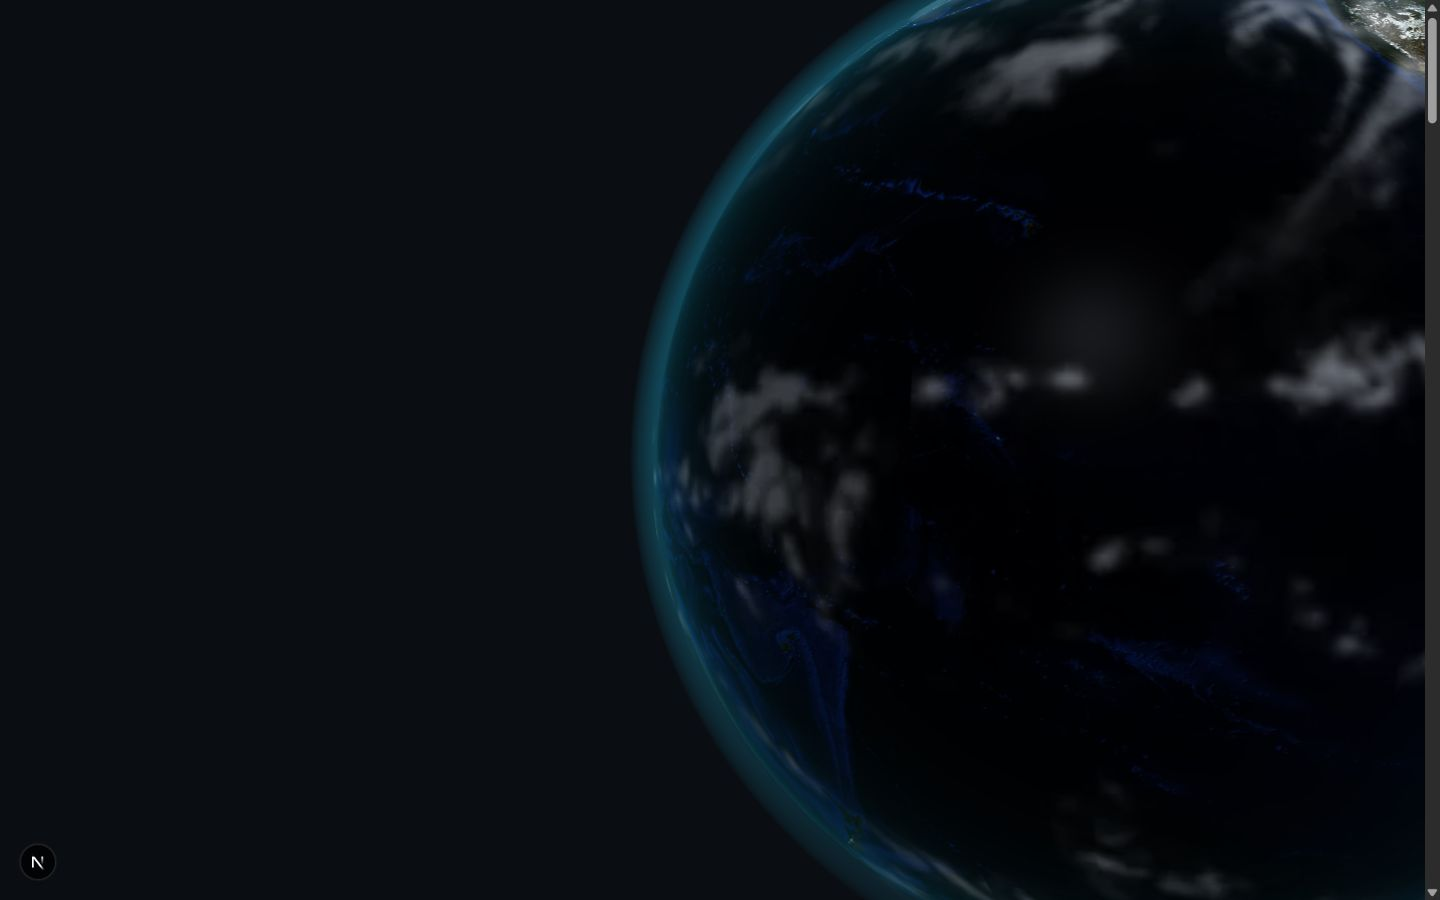
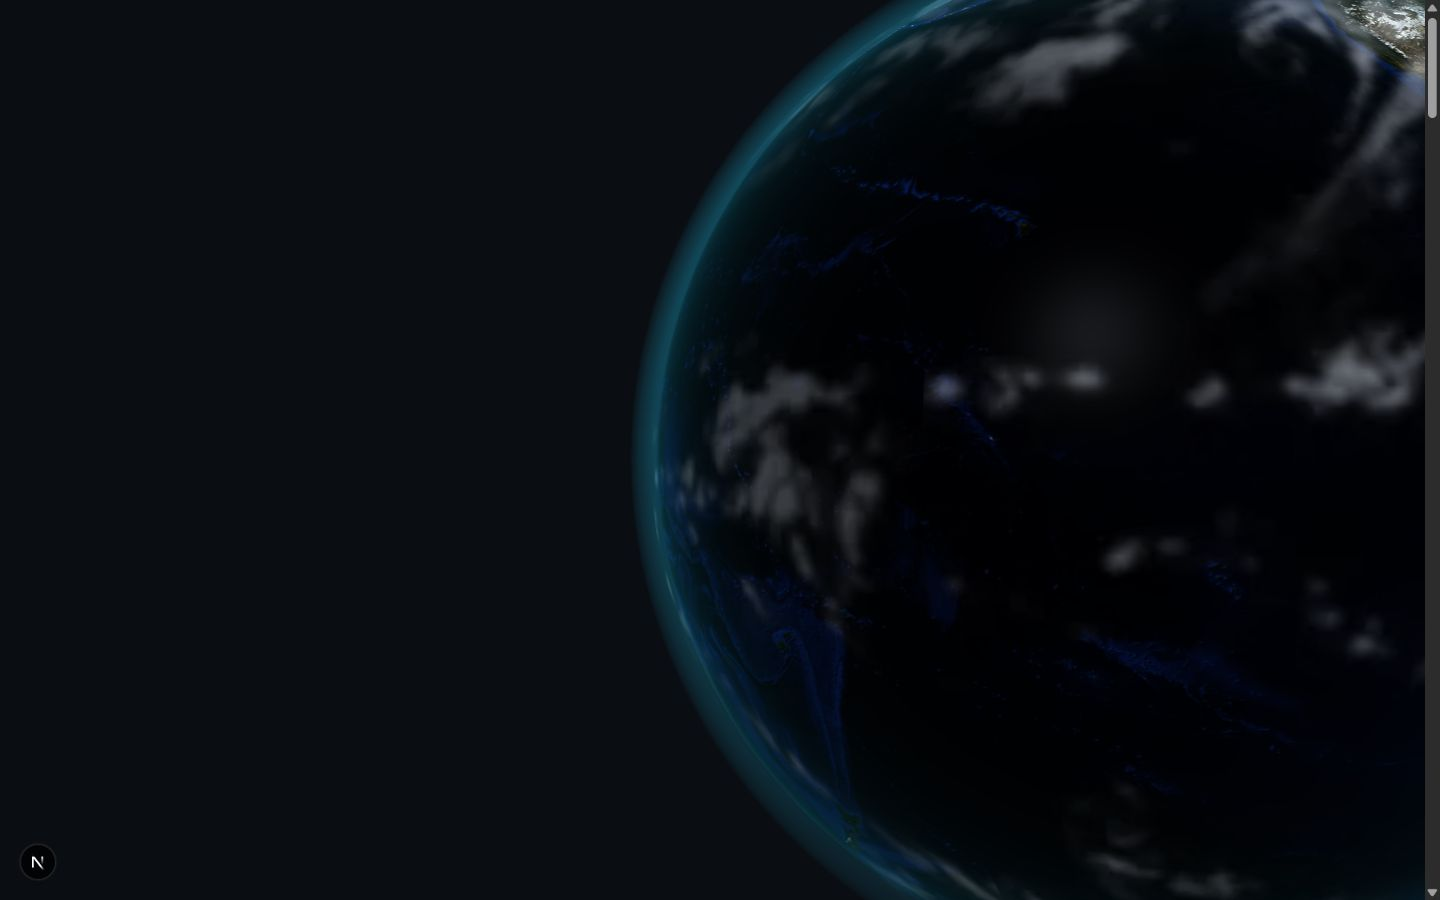
feat: round 6: hard hand-offs, header solid over the film, Web folded to one beat
Each visual mounts only once its stage is nearly in and the previous one
has fully left. The header is solid from the Canada zoom on. The Web
chapter is a headline, a paragraph, one link and the card stack. Systems
is vertically centred with a front-on grid and a legend; Physics reads on
the right with the orbits on the left. README updated for five chapters.

diff --git a/src/app/page.tsx b/src/app/page.tsx
@@ -1,5 +1,4 @@
 import Link from "next/link";
-import type { Route } from "next";
 import { ArrowRightIcon, ArrowUpRightIcon } from "@/components/icons";
 import { Chapter } from "@/components/film/chapter";
 import { FilmMotion } from "@/components/film/film-motion";
@@ -7,7 +6,7 @@ import { FilmHero } from "@/components/film/film-hero";
 import { Container } from "@/components/section";
 import { buttonVariants } from "@/components/ui/button";
 import { cn } from "@/lib/utils";
-import { listedProjects, roles } from "@/content/work";
+import { roles } from "@/content/work";
 import { site } from "@/content/site";
 
 const current = roles.find((r) => r.current)!;
@@ -90,11 +89,12 @@ export default function HomePage() {
           index="02"
           label="Systems"
           length={0.9}
+          align="center"
         >
-          <h2 id="systems-title" className={cn(chapterTitle, "mt-6 sm:mt-0")} data-line>
+          <h2 id="systems-title" className={cn(chapterTitle, "sm:max-w-[16ch]")} data-line>
             {current.title} at {current.organisation}.
           </h2>
-          <div className={chapterBody}>
+          <div className={cn(chapterBody, "sm:max-w-[42ch]")}>
             <p data-line>
               I keep the scheduling software a health region of{" "}
               <em className="font-display text-[1.15em] text-ink not-italic">
@@ -105,19 +105,28 @@ export default function HomePage() {
               it every day.
             </p>
             <p data-line className="hidden sm:block">
-              It is a good place to learn what software looks like when the
-              stakes are real. People notice immediately when a clinic cannot
-              book a patient.
+              People notice immediately when a clinic cannot book a patient.
             </p>
           </div>
+          <p className="label mt-6 max-w-[40ch]" data-line>
+            One week, Monday to Sunday, 06:00 to 18:00. Teal is booked. The
+            amber slot is a conflict, moved.
+          </p>
         </Chapter>
 
         {/* -------------------------------------------------- 03, physics */}
-        <Chapter id="physics" index="03" label="Physics" length={0.7}>
-          <h2 id="physics-title" className={chapterTitle} data-line>
+        <Chapter
+          id="physics"
+          index="03"
+          label="Physics"
+          length={0.7}
+          align="center"
+          panelClassName="sm:pl-[52%]"
+        >
+          <h2 id="physics-title" className={cn(chapterTitle, "sm:max-w-[18ch]")} data-line>
             I studied physics. It left me with one habit: measure, then decide.
           </h2>
-          <div className={chapterBody}>
+          <div className={cn(chapterBody, "sm:max-w-[42ch]")}>
             <p data-line>
               The degree taught me to sit with a problem I did not understand
               yet. The programming started as a way through problem sets and
@@ -128,35 +137,23 @@ export default function HomePage() {
         </Chapter>
 
         {/* ------------------------------------------------------ 04, web */}
-        <Chapter id="web" index="04" label="Web" length={0.45} hold>
+        <Chapter id="web" index="04" label="Web" length={0.3} hold>
           <h2 id="web-title" className={chapterTitle} data-line>
             Small, fast pages that are real HTML before any JavaScript runs.
           </h2>
-          <ul className="mt-6 grid max-w-3xl grid-cols-2 gap-x-6 gap-y-3 sm:mt-8 lg:grid-cols-4">
-            {listedProjects.slice(0, 4).map((project) => (
-              <li
-                key={project.slug}
-                className="border-t border-line pt-3 pr-4 sm:pt-4"
-                data-line
-              >
-                <Link
-                  href={
-                    (project.href.startsWith("/") ? project.href : "/work") as Route
-                  }
-                  className="group inline-flex items-center gap-1.5 font-display text-xl text-ink hover:text-signal sm:text-2xl"
-                >
-                  {project.title}
-                  <ArrowUpRightIcon
-                    aria-hidden
-                    className="size-4 transition-transform duration-300 group-hover:translate-x-0.5 group-hover:-translate-y-0.5"
-                  />
-                </Link>
-                <p className="mt-1.5 hidden text-sm leading-relaxed text-ink-muted sm:block">
-                  {project.blurb}
-                </p>
-              </li>
-            ))}
-          </ul>
+          <p className={chapterBody} data-line>
+            Four small programs live on this site: an orbital mechanics lab, a
+            double pendulum, a shift scheduler, and a globe you can leave a
+            light on.
+          </p>
+          <Link
+            href="/work"
+            className="link-underline mt-6 inline-flex items-center gap-2 text-sm font-medium text-ink hover:text-signal"
+            data-line
+          >
+            See all four
+            <ArrowRightIcon aria-hidden className="size-4" />
+          </Link>
         </Chapter>
 
       </FilmMotion>

diff --git a/src/components/film/schedule-scene.tsx b/src/components/film/schedule-scene.tsx
@@ -51,7 +51,7 @@ const slots: Slot[] = (() => {
   for (let i = 0; i < COUNT; i++) {
     const booked = random() < 0.58;
     out.push({
-      height: booked ? 0.08 + random() * 0.26 : 0.012,
+      height: booked ? 0.07 + random() * 0.15 : 0.012,
       booked,
       order: random(),
     });
@@ -62,7 +62,7 @@ const slots: Slot[] = (() => {
 /** The booking that moves, and where it goes. */
 const FROM = 3 * ROWS + 5;
 const TO = 5 * ROWS + 8;
-slots[FROM] = { height: 0.3, booked: true, order: 0.3 };
+slots[FROM] = { height: 0.22, booked: true, order: 0.3 };
 slots[TO] = { height: 0.012, booked: false, order: 0.9 };
 
 const dummy = new THREE.Object3D();
@@ -110,10 +110,10 @@ export function ScheduleScene() {
       let color: THREE.Color = slot.booked ? tealColor : emptyColor;
 
       if (i === FROM) {
-        height = 0.012 + (0.3 - 0.012) * local * (1 - ease(reflow));
+        height = 0.012 + (0.22 - 0.012) * local * (1 - ease(reflow));
         color = scratch.copy(tealColor).lerp(amberColor, ease(reflow * 2));
       } else if (i === TO) {
-        height = 0.012 + (0.3 - 0.012) * ease((reflow - 0.4) / 0.6);
+        height = 0.012 + (0.22 - 0.012) * ease((reflow - 0.4) / 0.6);
         color = reflow > 0.4 ? amberColor : emptyColor;
       }
 
@@ -132,15 +132,15 @@ export function ScheduleScene() {
 
     // Placement: right half on wide screens, upper half on phones. Slides
     // up and shrinks away as the chapter leaves.
-    const leave = ease(p.exit / 0.55);
+    const leave = ease(p.exit / 0.4);
     const base = narrow
       ? { x: 0, y: -0.66, s: 0.36 }
-      : { x: Math.min(0.9, halfW - 0.95), y: 0.05, s: 0.78 };
+      : { x: Math.min(0.95, halfW - 0.95), y: 0.0, s: 0.72 };
     g.position.set(base.x, base.y + leave * 1.1, 0);
     // Holds back until the Earth has mostly left, then grows in.
-    const arrive = ease((p.enter - 0.3) / 0.5);
+    const arrive = ease((p.enter - 0.8) / 0.2);
     g.scale.setScalar(Math.max(0.0001, base.s * (1 - leave * 0.4) * (0.7 + 0.3 * arrive) * arrive * (1 - leave)));
-    g.rotation.set(-0.62 + leave * 0.3, Math.sin(p.pin * Math.PI) * 0.06 - 0.06, 0);
+    g.rotation.set(-0.46 + leave * 0.3, Math.sin(p.pin * Math.PI) * 0.04, 0);
     if (caption.current) {
       const material = caption.current.material as THREE.MeshBasicMaterial;
       material.opacity = ease((reflow - 0.35) / 0.3) * (1 - leave);
@@ -155,11 +155,11 @@ export function ScheduleScene() {
       </mesh>
       {/* Day names along the far edge, hours down the left, both lying flat. */}
       <mesh rotation={[-Math.PI / 2, 0, 0]} position={[0, 0.002, -(ROWS * (CELL + GAP)) / 2 - 0.2]}>
-        <planeGeometry args={[COLUMNS * (CELL + GAP), 0.16]} />
+        <planeGeometry args={[COLUMNS * (CELL + GAP), 0.2]} />
         <meshBasicMaterial map={dayLabels} transparent depthWrite={false} />
       </mesh>
       <mesh rotation={[-Math.PI / 2, 0, 0]} position={[-(COLUMNS * (CELL + GAP)) / 2 - 0.2, 0.002, 0]}>
-        <planeGeometry args={[0.16, ROWS * (CELL + GAP)]} />
+        <planeGeometry args={[0.2, ROWS * (CELL + GAP)]} />
         <meshBasicMaterial map={hourLabels} transparent depthWrite={false} />
       </mesh>
       <mesh

diff --git a/src/components/film/cards-scene.tsx b/src/components/film/cards-scene.tsx
@@ -32,7 +32,7 @@ function Card({
     const g = group.current;
     if (!g) return;
     const t = clock.elapsedTime + index * 1.7;
-    const enter = ease((progress.web.enter - 0.55 - index * 0.06) / 0.4);
+    const enter = ease((progress.web.enter - 0.84 - index * 0.04) / 0.16);
     g.position.set(offset[0], offset[1] + Math.sin(t * 0.9) * 0.02 - (1 - enter) * 0.5, offset[2]);
     g.rotation.set(Math.sin(t * 0.7) * 0.02, -0.1 + index * -0.02, 0);
     g.scale.setScalar((0.85 + 0.15 * enter) * (index === 0 ? 1 : index === 1 ? 0.85 : 0.72));
@@ -77,8 +77,8 @@ export function CardsScene() {
 
     const leave = ease(progress.web.exit) * 0.35;
     const base = narrow
-      ? { x: 0, y: -0.62, s: 0.72 }
-      : { x: Math.min(0.35, halfW - 1.6), y: 0.36, s: 1.45 };
+      ? { x: 0, y: -0.7, s: 0.72 }
+      : { x: Math.min(0.55, halfW - 1.45), y: 0.2, s: 1.45 };
     g.position.set(base.x, base.y + leave * 1.2, 0);
     g.scale.setScalar(Math.max(0.0001, base.s * (1 - leave)));
     g.rotation.set(-smooth.current.ty * 0.18, smooth.current.tx * 0.28, 0);

diff --git a/src/components/film/earth.tsx b/src/components/film/earth.tsx
@@ -210,7 +210,7 @@ export function Earth() {
     const zoomTarget = 0.5 * canada.enter + 0.5 * canada.pin;
     smooth.current.zoom = damp(smooth.current.zoom, zoomTarget, 7, dt);
     smooth.current.recede = damp(smooth.current.recede, progress.systems.enter, 7, dt);
-    smooth.current.gone = damp(smooth.current.gone, progress.systems.enter, 7, dt);
+    smooth.current.gone = damp(smooth.current.gone, Math.min(1, progress.systems.enter / 0.7), 7, dt);
     const { zoom, recede, gone } = smooth.current;
 
     g.visible = gone < 0.999;
@@ -237,7 +237,7 @@ export function Earth() {
     if (clouds.current) clouds.current.rotation.y += dt * 0.008;
 
     const arrival: Pose = narrow
-      ? { x: 0.28, y: -0.55, s: 0.78 }
+      ? { x: 0.22, y: -0.82, s: 0.72 }
       : { x: Math.min(1.05, halfW - 0.7), y: -0.02, s: 1.18 };
     const needed = aspect >= 1 ? 0.95 : 0.95 / aspect;
     const zoomed: Pose = {

diff --git a/src/components/film/orbits-scene.tsx b/src/components/film/orbits-scene.tsx
@@ -171,15 +171,15 @@ export function OrbitsScene() {
     }
 
     const p = progress.physics;
-    const enter = ease((p.enter - 0.45) / 0.5);
+    const enter = ease((p.enter - 0.82) / 0.18);
     const leave = ease(p.exit / 0.3);
     const base = narrow
       ? { x: 0.05, y: -0.55, s: 0.4 }
-      : { x: Math.min(0.95, halfW - 0.85), y: 0.3, s: 0.68 };
+      : { x: -Math.min(0.75, halfW - 1.0), y: 0.15, s: 0.8 };
     g.position.set(base.x, base.y + (1 - enter) * -0.6 + leave * 1.2, 0);
     g.scale.setScalar(Math.max(0.0001, base.s * enter * (1 - leave)));
     g.rotation.set(0.55, p.pin * 0.4 - 0.2, 0);
-    if (trailMaterial.current) trailMaterial.current.opacity = 0.55 * smooth.current.on * enter;
+    if (trailMaterial.current) trailMaterial.current.opacity = 0.45 * smooth.current.on * enter;
   });
 
   return (

diff --git a/src/components/film/chapter.tsx b/src/components/film/chapter.tsx
@@ -17,6 +17,8 @@ type ChapterProps = Omit<React.ComponentProps<"section">, "title"> & {
   visual?: React.ReactNode;
   /** Where the text panel sits on the stage. */
   align?: "start" | "end" | "center";
+  /** Extra classes for the text panel, for per-chapter composition. */
+  panelClassName?: string;
 };
 
 /**
@@ -37,6 +39,7 @@ export function Chapter({
   hold,
   visual,
   align = "end",
+  panelClassName,
   className,
   children,
   style,
@@ -68,6 +71,7 @@ export function Chapter({
             align === "start" && "sm:pt-28",
             align === "center" && "sm:self-center sm:pt-0",
             align === "end" && "sm:self-end sm:pt-0 sm:pb-20",
+            panelClassName,
           )}
         >
           <p className="label mb-6" data-line>

diff --git a/src/components/site-header.tsx b/src/components/site-header.tsx
@@ -50,8 +50,9 @@ export function SiteHeader() {
         filled += Math.min(1, p.enter) + p.pin;
       }
       const past = progress.web.exit >= 0.98;
-      // Over the bright Arctic the mask is not enough; go solid for the zoom.
-      const overIce = progress.canada.pin > 0.1 && progress.systems.enter < 0.7;
+      // Only the hero gets the soft mask; from the Canada zoom on the header
+      // is solid so nothing on the canvas ever draws through the chrome.
+      const overIce = progress.canada.enter > 0.6;
       const index = past ? chapterIds.length : chapterIds.indexOf(current);
       const key = `${index}:${past}:${overIce}`;
       if (key !== last) {

diff --git a/src/app/globals.css b/src/app/globals.css
@@ -193,7 +193,7 @@
   /* The next chapter starts sliding over while this one is still pinned,
      so its text is on screen the moment the previous text has gone. */
   .chapter + .chapter {
-    margin-top: -45svh;
+    margin-top: -30svh;
   }
 
   /* Phones: shorter chapters and less overlap, so a frame is never mostly void. */

diff --git a/src/components/film/film-motion.tsx b/src/components/film/film-motion.tsx
@@ -87,7 +87,7 @@ export function FilmMotion({ children }: { children: React.ReactNode }) {
               scrollTrigger: {
                 trigger: chapter,
                 start: "top bottom",
-                end: "top 40%",
+                end: "top 30%",
                 scrub: 0.6,
               },
             },

diff --git a/README.md b/README.md
@@ -36,7 +36,7 @@ DATABASE_URL=postgres://...    # optional: Neon, for /work/hello only
 | Components | shadcn/ui primitives (`button`, `input`, `label`, `sheet`, `dialog`) on Radix, everything else composed by hand |
 | 3D | `three`, `@react-three/fiber`, `@react-three/drei`. One canvas on the front page, one per app that needs it. |
 | Scroll | Lenis for smooth scroll, GSAP ScrollTrigger for the timelines. One engine, wired once in `ScrollProvider`. |
-| Icons | Inline SVGs in `src/components/icons.tsx`, and the two brand paths in the film. No icon package. |
+| Icons | Inline SVGs in `src/components/icons.tsx`. No icon package. |
 | Data | Neon Postgres over HTTP (`@neondatabase/serverless`) for one table, `hellos`. Absent, the app runs in preview mode. |
 | Contact | Server Action posting to the Resend API. The address and key stay server side. |
 | Analytics | The existing GA4 property, loaded `afterInteractive`. Nothing else. |
@@ -63,7 +63,7 @@ legacy-quasar/         the previous Quasar site, kept for reference
 
 ## The front page
 
-The home page is a film. Six pinned chapters, then a static offer:
+The home page is a film. Five pinned chapters, then a static offer:
 
 | # | Chapter | On the canvas |
 | --- | --- | --- |
@@ -71,9 +71,8 @@ The home page is a film. Six pinned chapters, then a static offer:
 | 01 | Canada | The sun comes round, the Earth turns and pushes in until Canada fills the frame, outline drawn on |
 | 02 | Systems | A week of appointment slots rising as bars; one turns amber and is re-flowed |
 | 03 | Physics | A velocity Verlet N-body with trails; the pointer tugs the bodies |
-| 04 | Web | Screenshot cards of the apps, fanned in depth, tilting toward the pointer |
-| 05 | Elsewhere | Matte tiles carrying the LinkedIn and GitHub marks, above the real links |
-| 06 | The offer | Static. Three things I build and a button to `/build` |
+| 04 | Web | Screenshot cards of the apps, stacked in depth, tilting toward the pointer |
+| 05 | The offer | Static. Three things I build, a button to `/build`, and the LinkedIn and GitHub links |
 
 How it is put together:
 
@@ -89,8 +88,11 @@ How it is put together:
   server-rendered poster (`public/poster-earth.jpg`, plus a phone crop). A loading
   screen covers the page while the Earth's maps arrive and lifts on the first
   drawn frame, or after eight seconds, whichever comes first.
-- The header reads the current chapter from the same store and fills a hairline
-  as the film plays.
+- The header reads the current chapter from the same store and lights a
+  five-segment rail as the film plays; over the bright Arctic zoom it goes solid.
+- On phones each chapter's text is pinned to the top of its stage, the edge that
+  enters the viewport first, with the visual in the lower half, so no frame is
+  ever picture-only.
 
 **Reduced motion and no WebGL.** Nothing 3D mounts. The chapters collapse to a
 plain stacked page with every line visible, the poster stands in for the Earth,
